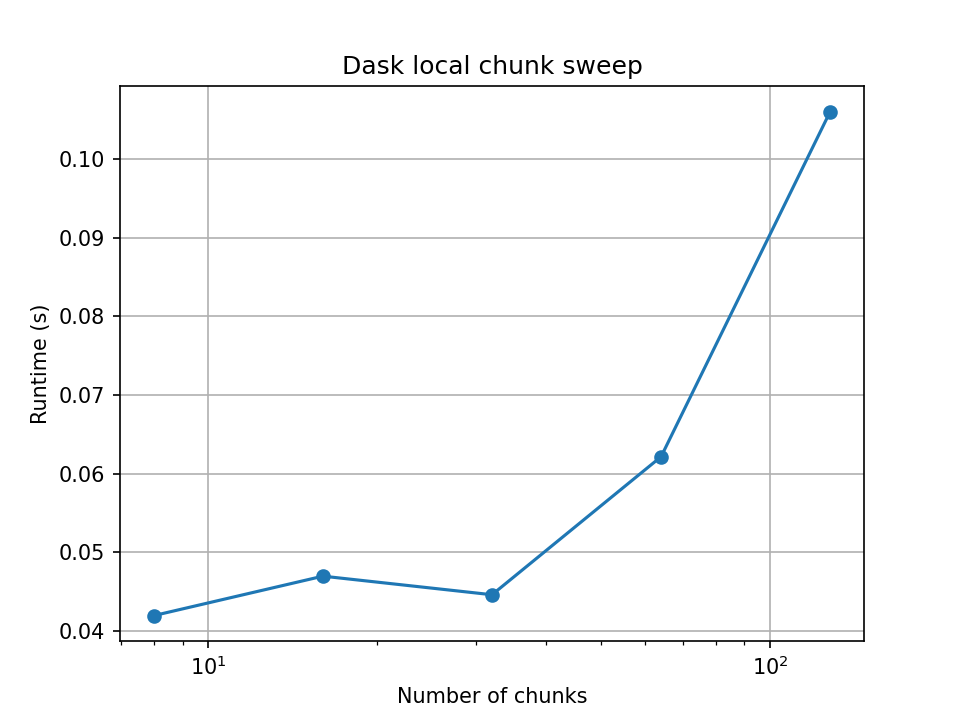
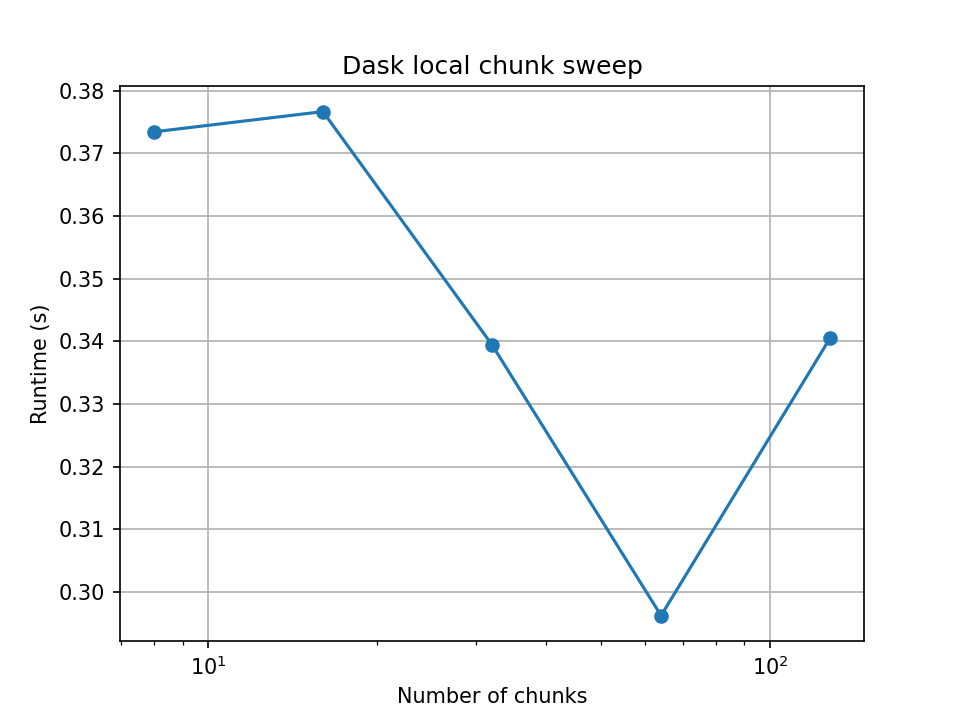
Changing grid for Local dask to 4096

diff --git a/mandelbrot_dask.py b/mandelbrot_dask.py
@@ -1,7 +1,7 @@
 import numpy as np
 from dask import delayed
-#from dask.distributed import Client, LocalCluster #local 
-from dask.distributed import Client #strato 
+from dask.distributed import Client, LocalCluster #local 
+#from dask.distributed import Client #strato 
 import dask
 import time
 import statistics
@@ -35,12 +35,12 @@ def mandelbrot_dask(
 if __name__ == "__main__":
     N, max_iter = 4096, 100
     X_MIN, X_MAX, Y_MIN, Y_MAX = -2.5, 1.0, -1.25, 1.25
-    n_workers = 2
+    n_workers = 8
 
 
-    #cluster = LocalCluster(n_workers=n_workers, threads_per_worker=1) #local 
-    #client = Client(cluster) #local 
-    client = Client("tcp://10.92.1.19:8786") #Strato 
+    cluster = LocalCluster(n_workers=n_workers, threads_per_worker=1) #local 
+    client = Client(cluster) #local 
+    #client = Client("tcp://10.92.1.19:8786") #Strato 
 
     print(f"Dashboard: {client.dashboard_link}")
 
@@ -67,8 +67,8 @@ if __name__ == "__main__":
         )
         times.append(time.perf_counter() - t0)
 
-    #print(f"Dask local (n_chunks=32): {statistics.median(times):.3f} s")
-    print(f"Dask cluster (n_chunks=32): {statistics.median(times):.3f} s")
+    print(f"Dask local (n_chunks=32): {statistics.median(times):.3f} s")
+    #print(f"Dask cluster (n_chunks=32): {statistics.median(times):.3f} s")
 
     # M2: serial baseline
     times = []
@@ -111,13 +111,13 @@ if __name__ == "__main__":
     plt.plot(chunks, times_plot, marker="o")
     plt.xlabel("Number of chunks")
     plt.ylabel("Runtime (s)")
-    #plt.title("Dask local chunk sweep")
-    plt.title("Dask cluster chunk sweep")
+    plt.title("Dask local chunk sweep")
+    #plt.title("Dask cluster chunk sweep")
     plt.xscale("log")
     plt.grid(True)
-    #plt.savefig("dask_chunk_sweep.png", dpi=150)
-    plt.savefig("dask_cluster_chunk_sweep.png", dpi=150)
+    plt.savefig("dask_chunk_sweep.png", dpi=150)
+    #plt.savefig("dask_cluster_chunk_sweep.png", dpi=150)
     plt.show()
 
     client.close()
-    #cluster.close()
+    cluster.close()

diff --git a/comparison.py b/comparison.py
@@ -29,7 +29,7 @@ def benchmark(func, *args, n_runs=3):
 
 if __name__ == "__main__":
 
-    N = 1024
+    N = 4096
     x_min, x_max = -2.5, 1.0
     y_min, y_max = -1.25, 1.25
     max_iter = 100
